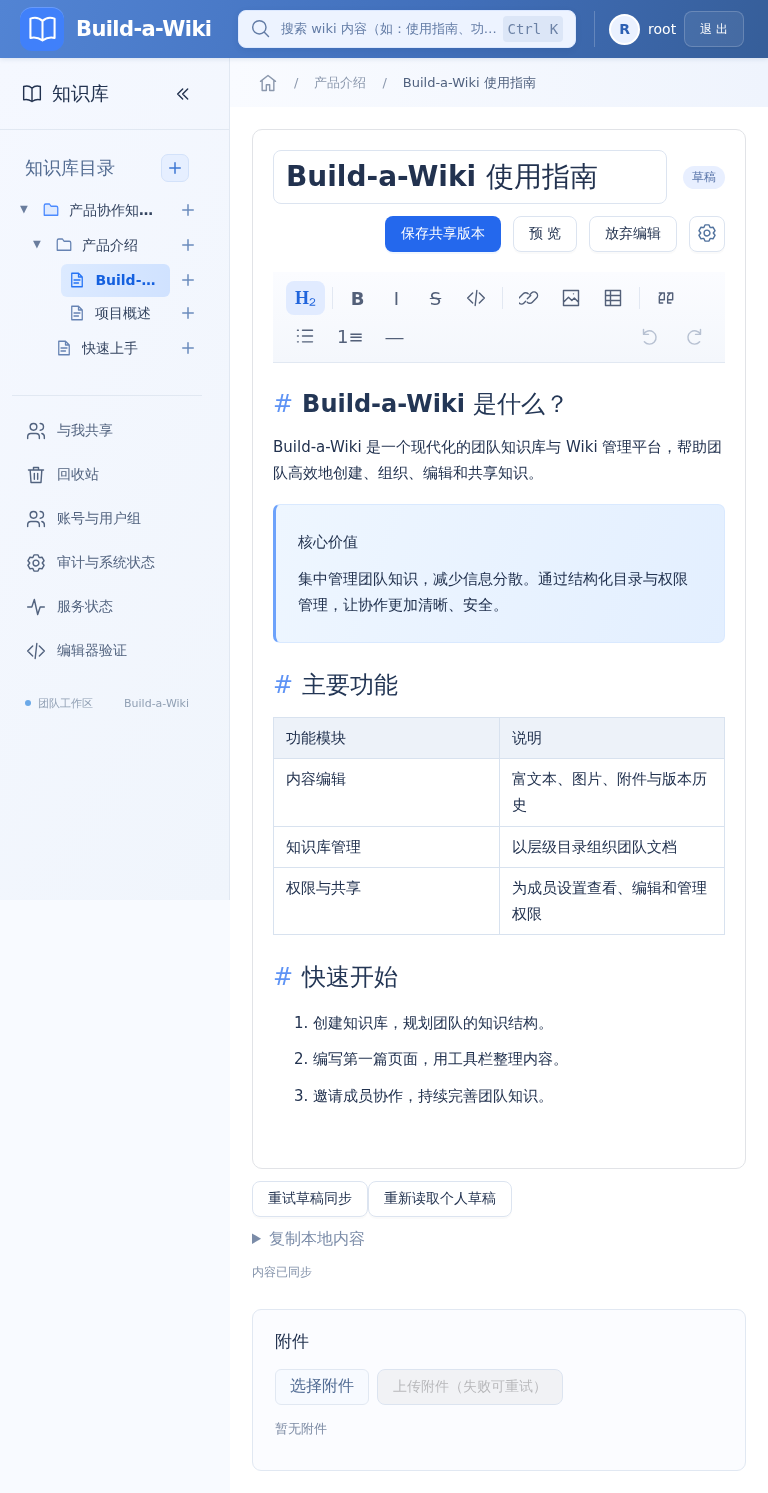
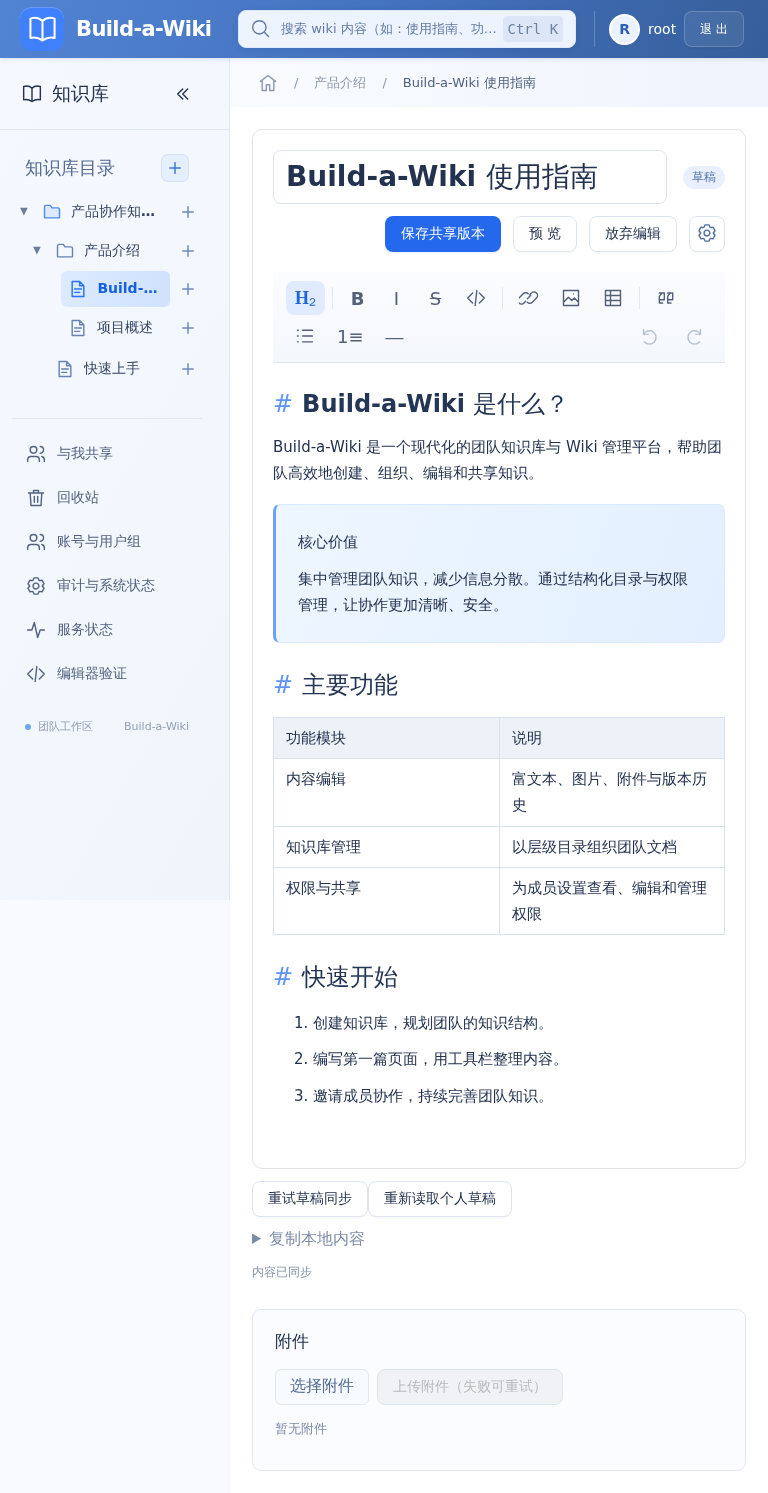
fix(ui): preserve directory padding and adjust item margins

Changed region(s): [[0.0312, 0.2773, 0.2188, 0.493], [0.0625, 0.1232, 0.25, 0.2465], [0.1562, 0.4622, 0.25, 0.493]]

diff --git a/frontend/src/style.css b/frontend/src/style.css
@@ -1606,39 +1606,20 @@ summary:focus-visible {
 }
 
 .sidebar .library-tree {
-  --directory-row-scale: 0.9;
+  --directory-margin-scale: 0.9;
   --directory-indent-scale: 1.1;
-  --directory-base-row-height: 36px;
-  --directory-base-vertical-padding: 8px;
-  --directory-base-list-gap: 3px;
+  --directory-base-item-margin: 3px;
   --directory-base-indent: 12px;
-  --directory-line-height: 18px;
-  --directory-icon-size: 18px;
-}
-.sidebar .library-tree-row,
-.sidebar .page-tree-row {
-  height: calc(var(--directory-base-row-height) * var(--directory-row-scale));
-}
-.sidebar .library-tree-row > a,
-.sidebar .page-tree-row > a {
-  height: 100%;
-  padding-top: calc(
-    var(--directory-base-vertical-padding) * var(--directory-row-scale)
+  --directory-item-margin: calc(
+    var(--directory-base-item-margin) * var(--directory-margin-scale)
   );
-  padding-bottom: calc(
-    var(--directory-base-vertical-padding) * var(--directory-row-scale)
-  );
-  line-height: var(--directory-line-height);
 }
-.sidebar .library-tree-row > a > svg,
-.sidebar .page-tree-row > a > svg {
-  width: var(--directory-icon-size);
-  height: var(--directory-icon-size);
+.sidebar .library-tree > section + section,
+.sidebar .library-tree .page-tree > li + li {
+  margin-top: var(--directory-item-margin);
 }
 .sidebar .library-tree .page-tree {
-  margin-block: calc(
-    var(--directory-base-list-gap) * var(--directory-row-scale)
-  );
+  margin-block: var(--directory-item-margin);
   padding-left: calc(
     var(--directory-base-indent) * var(--directory-indent-scale)
   );

diff --git a/docs/UI_REDESIGN.md b/docs/UI_REDESIGN.md
@@ -183,3 +183,7 @@ docker compose --env-file .data/compose-test.env -p wiki-acceptance \
 侧栏知识库和页面条目高度由 36px 调整为 32.4px（90%），上下内边距由 8px 调整为 7.2px，列表上下间隔由 3px 调整为 2.7px；层级缩进由 12px 调整为 13.2px（110%）。文件/文件夹图标同步调整为 18px，文字保持 14px，展开和创建按钮保持居中。比例与基准尺寸统一使用 CSS 自定义属性，仅作用于侧栏目录。
 
 生产构建、目录滚动稳定性及响应式 UI 两项浏览器回归通过（24.9 秒），桌面/平板/手机截图已更新，本地镜像 `fa4b3c9e6841`，无新增依赖。
+
+## 目录间距修正为 margin
+
+按最新要求撤销上一轮条目内边距、固定行高及图标缩放，恢复原 8px 上下 padding 和自然高度。相邻知识库/页面条目改用明确的 margin-top 控制，以已有目录列表 3px 间距为基准乘 0.9，得到 2.7px；列表上下 margin 同为 2.7px。层级缩进继续为 13.2px，比例和基准通过 CSS 自定义属性定义。生产构建及目录稳定性、响应式 UI 两项浏览器回归通过（25.1 秒），更新截图和本地镜像 `7bfb9d9929d1`，无新增依赖。

diff --git a/docs/CHECKLIST.md b/docs/CHECKLIST.md
@@ -126,3 +126,4 @@ A组任务已完成并记录校验小结。复现命令和结果详见 VALIDATIO
 | 目录名称重复点击收起 | ✔ | 修复标题只有导航没有折叠处理的问题；首次选择导航展开，重复点击当前知识库/父页面切换展开状态；支持 Enter，四项浏览器回归与生产构建通过，无新增依赖。 |
 | 文档边框与空正文 | ✔ | 标题、操作入口及正文共用浅灰边框，适配内边距与窄屏换行；空正文居中显示浅灰斜体“空空如也”，不写入正文；内容、动效与 UI 回归及生产构建通过，无新增依赖。 |
 | 目录密度与缩进 | ✔ | 条目高度、上下内边距与列表间距缩至 90%，层级缩进增至 110%；比例与基准值使用 CSS 常量，构建及两项浏览器回归通过，截图与本地前端已更新，无新增依赖。 |
+| 目录外边距修正 | ✔ | 恢复原 padding、自然行高和图标尺寸，使用相邻条目的 margin 控制间距（3px 基准 × 90%），保留 110% 层级缩进；构建及两项浏览器回归通过，无新增依赖。 |
